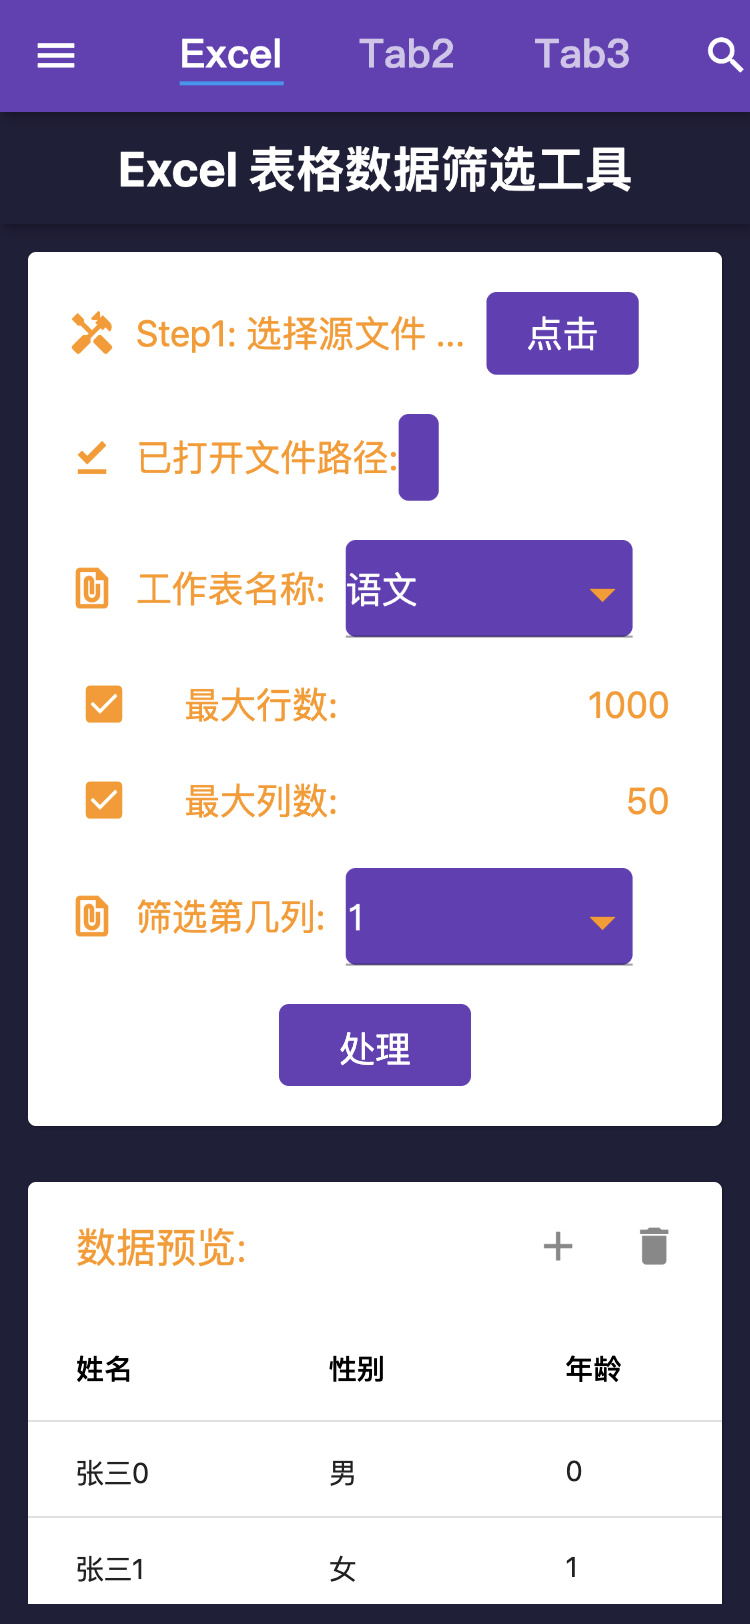
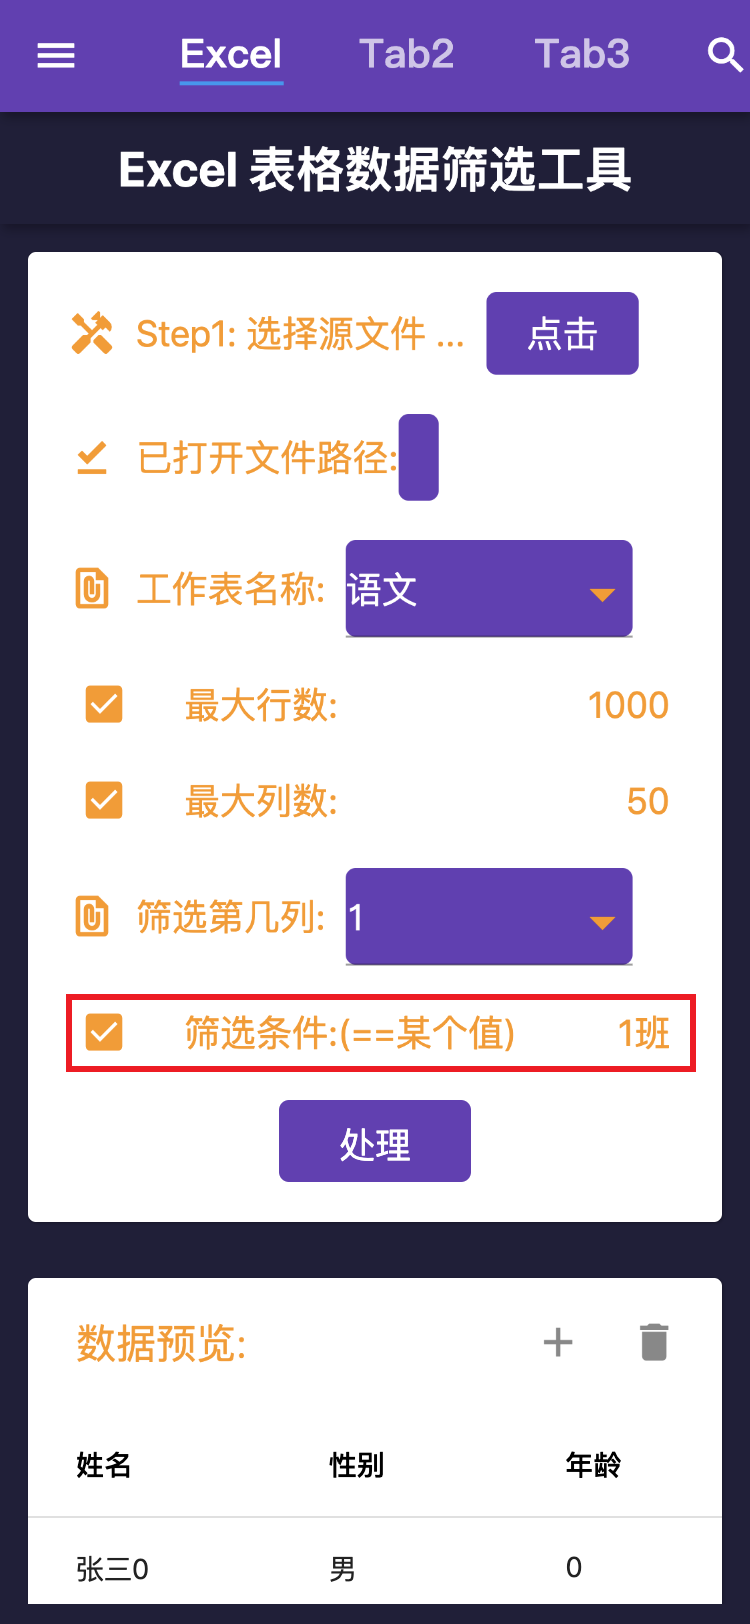
update

diff --git a/lib/app/modules/excel/views/excel_view.dart b/lib/app/modules/excel/views/excel_view.dart
@@ -210,6 +210,15 @@ class ExcelView extends GetView<ExcelController> {
                       ..itemsCenter(),
                   ),
 
+                  ListTile(
+                    leading: Icon(
+                      Icons.check_box,
+                      color: Colors.orange,
+                    ),
+                    title: Text('筛选条件:(==某个值)', style: contentStyle),
+                    trailing: Text('1班', style: contentStyle),
+                  ),
+
                   ///
                   ///
                   ///
